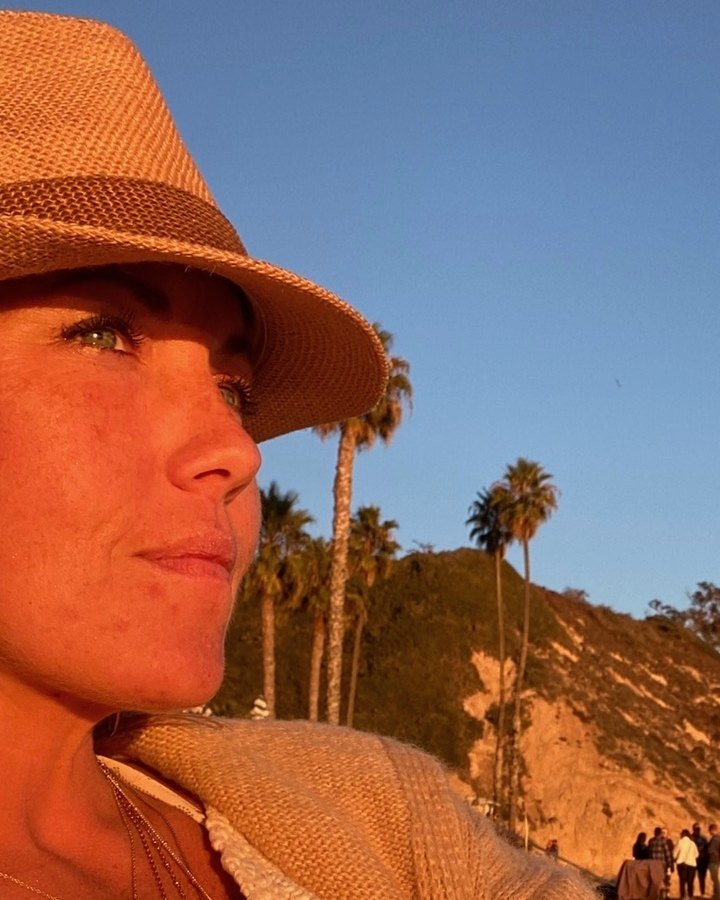
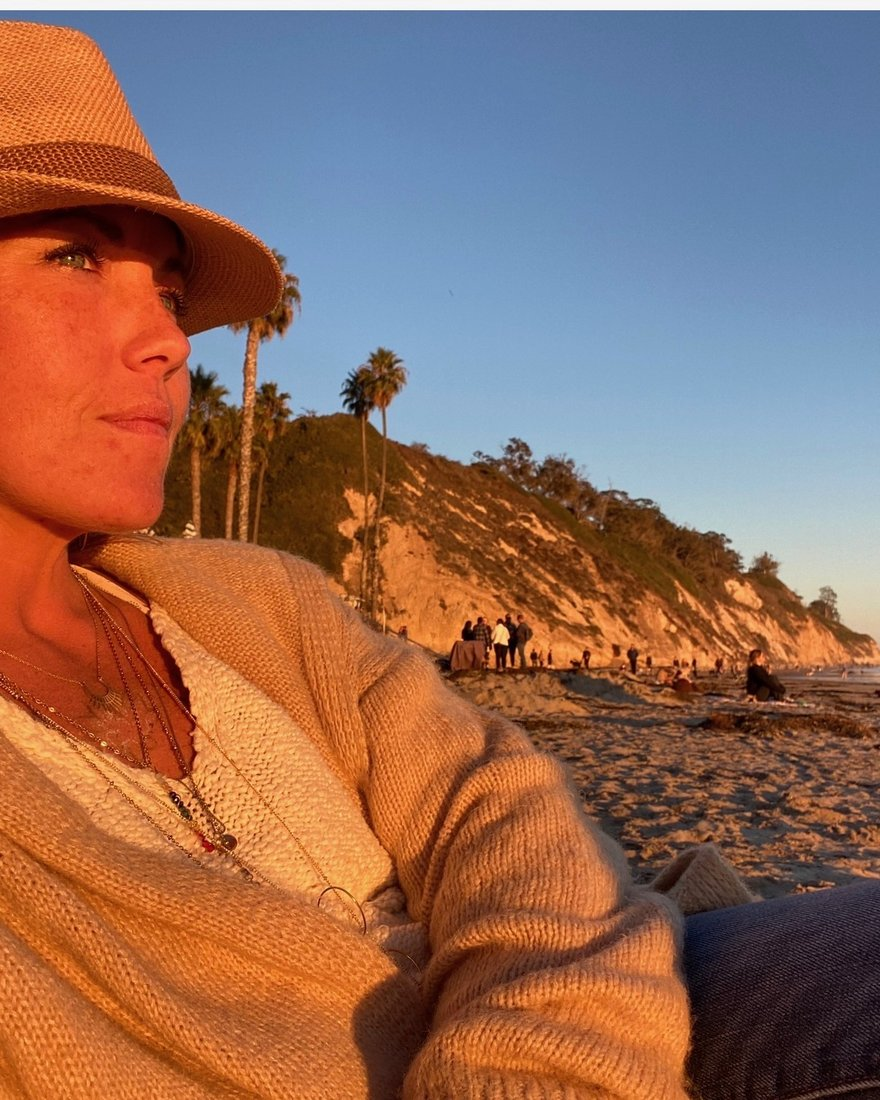
About: untilted polaroid frame, wider crop of portrait
Claude-Session: https://claude.ai/code/session_01GHdSLLaMSM8cPtxTxiagyP

diff --git a/about.html b/about.html
@@ -18,7 +18,7 @@
 <link rel="preconnect" href="https://fonts.googleapis.com">
 <link rel="preconnect" href="https://fonts.gstatic.com" crossorigin>
 <link rel="stylesheet" href="https://fonts.googleapis.com/css2?family=Cormorant+Garamond:ital,wght@0,300;0,400;0,500;0,600;1,300;1,400&family=Jost:wght@300;400;500&display=swap">
-<link rel="stylesheet" href="styles.css?v=84b22580">
+<link rel="stylesheet" href="styles.css?v=4dacb19f">
 </head>
 <body>
 <header id="site-header">
@@ -41,7 +41,7 @@
 <main>
 <section class="page-hero about-hero">
   <div class="wrap">
-    <div class="photo "><img src="images/pamela-sunset-beach.jpg" alt="Pamela in a woven hat, looking out to sea in golden evening light at Hendry's Beach" width="720" height="900" decoding="async"></div>
+    <div class="photo "><img src="images/pamela-sunset-beach.jpg" alt="Pamela in a woven hat, looking out to sea in golden evening light at Hendry's Beach" width="880" height="1100" decoding="async"></div>
     <div class="about-intro">
       <h1>Hello and welcome</h1>
       <p class="lede">My work serves the journey of the soul: helping you live the dharma and the purpose you came here to fulfill.</p>

diff --git a/styles.css b/styles.css
@@ -737,9 +737,10 @@ main:has(#hearts-of-hendrys, #in-the-works) .band { height: clamp(180px, 26vw, 3
 /* About portrait: white polaroid frame, slight tilt */
 .about-hero .photo {
   background: #fff; overflow: visible;
-  transform: rotate(-2.5deg); transform-origin: 50% 50%;
   box-shadow: 0 2px 4px rgba(30, 40, 45, 0.08), 0 18px 36px -16px rgba(30, 40, 45, 0.45);
   margin-top: 0.9rem;
 }
 .about-hero .photo img { inset: 12px 12px 46px; width: calc(100% - 24px); height: calc(100% - 58px); border-radius: 0; }
-@media (max-width: 560px) { .about-hero .photo { transform: rotate(-2deg); } .about-hero .photo img { inset: 7px 7px 26px; width: calc(100% - 14px); height: calc(100% - 33px); } }
+@media (max-width: 560px) { .about-hero .photo img { inset: 7px 7px 26px; width: calc(100% - 14px); height: calc(100% - 33px); } }
+
+.about-hero .photo img { object-position: 50% 40%; }

diff --git a/books.html b/books.html
@@ -18,7 +18,7 @@
 <link rel="preconnect" href="https://fonts.googleapis.com">
 <link rel="preconnect" href="https://fonts.gstatic.com" crossorigin>
 <link rel="stylesheet" href="https://fonts.googleapis.com/css2?family=Cormorant+Garamond:ital,wght@0,300;0,400;0,500;0,600;1,300;1,400&family=Jost:wght@300;400;500&display=swap">
-<link rel="stylesheet" href="styles.css?v=84b22580">
+<link rel="stylesheet" href="styles.css?v=4dacb19f">
 <script type="application/ld+json">
 {
   "@context": "https://schema.org",

diff --git a/index.html b/index.html
@@ -18,7 +18,7 @@
 <link rel="preconnect" href="https://fonts.googleapis.com">
 <link rel="preconnect" href="https://fonts.gstatic.com" crossorigin>
 <link rel="stylesheet" href="https://fonts.googleapis.com/css2?family=Cormorant+Garamond:ital,wght@0,300;0,400;0,500;0,600;1,300;1,400&family=Jost:wght@300;400;500&display=swap">
-<link rel="stylesheet" href="styles.css?v=84b22580">
+<link rel="stylesheet" href="styles.css?v=4dacb19f">
 <script type="application/ld+json">
 {
   "@context": "https://schema.org",

diff --git a/services.html b/services.html
@@ -18,7 +18,7 @@
 <link rel="preconnect" href="https://fonts.googleapis.com">
 <link rel="preconnect" href="https://fonts.gstatic.com" crossorigin>
 <link rel="stylesheet" href="https://fonts.googleapis.com/css2?family=Cormorant+Garamond:ital,wght@0,300;0,400;0,500;0,600;1,300;1,400&family=Jost:wght@300;400;500&display=swap">
-<link rel="stylesheet" href="styles.css?v=84b22580">
+<link rel="stylesheet" href="styles.css?v=4dacb19f">
 <script type="application/ld+json">
 {
   "@context": "https://schema.org",

diff --git a/book-preview.html b/book-preview.html
@@ -18,7 +18,7 @@
 <link rel="preconnect" href="https://fonts.googleapis.com">
 <link rel="preconnect" href="https://fonts.gstatic.com" crossorigin>
 <link rel="stylesheet" href="https://fonts.googleapis.com/css2?family=Cormorant+Garamond:ital,wght@0,300;0,400;0,500;0,600;1,300;1,400&family=Jost:wght@300;400;500&display=swap">
-<link rel="stylesheet" href="styles.css?v=84b22580">
+<link rel="stylesheet" href="styles.css?v=4dacb19f">
 </head>
 <body>
 <header id="site-header">

diff --git a/contact.html b/contact.html
@@ -18,7 +18,7 @@
 <link rel="preconnect" href="https://fonts.googleapis.com">
 <link rel="preconnect" href="https://fonts.gstatic.com" crossorigin>
 <link rel="stylesheet" href="https://fonts.googleapis.com/css2?family=Cormorant+Garamond:ital,wght@0,300;0,400;0,500;0,600;1,300;1,400&family=Jost:wght@300;400;500&display=swap">
-<link rel="stylesheet" href="styles.css?v=84b22580">
+<link rel="stylesheet" href="styles.css?v=4dacb19f">
 </head>
 <body>
 <header id="site-header">

diff --git a/inspirations.html b/inspirations.html
@@ -18,7 +18,7 @@
 <link rel="preconnect" href="https://fonts.googleapis.com">
 <link rel="preconnect" href="https://fonts.gstatic.com" crossorigin>
 <link rel="stylesheet" href="https://fonts.googleapis.com/css2?family=Cormorant+Garamond:ital,wght@0,300;0,400;0,500;0,600;1,300;1,400&family=Jost:wght@300;400;500&display=swap">
-<link rel="stylesheet" href="styles.css?v=84b22580">
+<link rel="stylesheet" href="styles.css?v=4dacb19f">
 </head>
 <body>
 <header id="site-header">

diff --git a/productions.html b/productions.html
@@ -18,7 +18,7 @@
 <link rel="preconnect" href="https://fonts.googleapis.com">
 <link rel="preconnect" href="https://fonts.gstatic.com" crossorigin>
 <link rel="stylesheet" href="https://fonts.googleapis.com/css2?family=Cormorant+Garamond:ital,wght@0,300;0,400;0,500;0,600;1,300;1,400&family=Jost:wght@300;400;500&display=swap">
-<link rel="stylesheet" href="styles.css?v=84b22580">
+<link rel="stylesheet" href="styles.css?v=4dacb19f">
 </head>
 <body>
 <header id="site-header">

diff --git a/build.py b/build.py
@@ -17,7 +17,7 @@ FONTS = "https://fonts.googleapis.com/css2?family=Cormorant+Garamond:ital,wght@0
 WAVE = '<svg class="wave{cls}" viewBox="0 0 1440 80" preserveAspectRatio="none" aria-hidden="true" focusable="false"><path d="M0,44 C220,78 460,6 720,30 C980,54 1210,12 1440,38 L1440,80 L0,80 Z"/></svg>'
 def wave(cls=""): return ""
 SHORE = ''
-SIZES = {"coral-heart-in-hand.jpg": (1168, 800), "ocean-sparkle.jpg": (980, 1095), "hendrys-beach.jpg": (2000, 743), "golden-water.jpg": (982, 1236), "sea-foam.jpg": (2000, 1278), "coral-heart-rocks-on-lava.jpg": (1446, 1356), "silver-ocean.jpg": (1452, 1362), "heart-rocks-sandstone.jpg": (1340, 1362), "shoreline-pebbles.jpg": (1452, 1360), "pamela-sunset-beach.jpg": (720, 900), "hearts-of-hendrys-cover.jpg": (1016, 762)}
+SIZES = {"coral-heart-in-hand.jpg": (1168, 800), "ocean-sparkle.jpg": (980, 1095), "hendrys-beach.jpg": (2000, 743), "golden-water.jpg": (982, 1236), "sea-foam.jpg": (2000, 1278), "coral-heart-rocks-on-lava.jpg": (1446, 1356), "silver-ocean.jpg": (1452, 1362), "heart-rocks-sandstone.jpg": (1340, 1362), "shoreline-pebbles.jpg": (1452, 1360), "pamela-sunset-beach.jpg": (880, 1100), "hearts-of-hendrys-cover.jpg": (1016, 762)}
 
 def img(name, alt, cls="", eager=False):
     w, h = SIZES[name]
